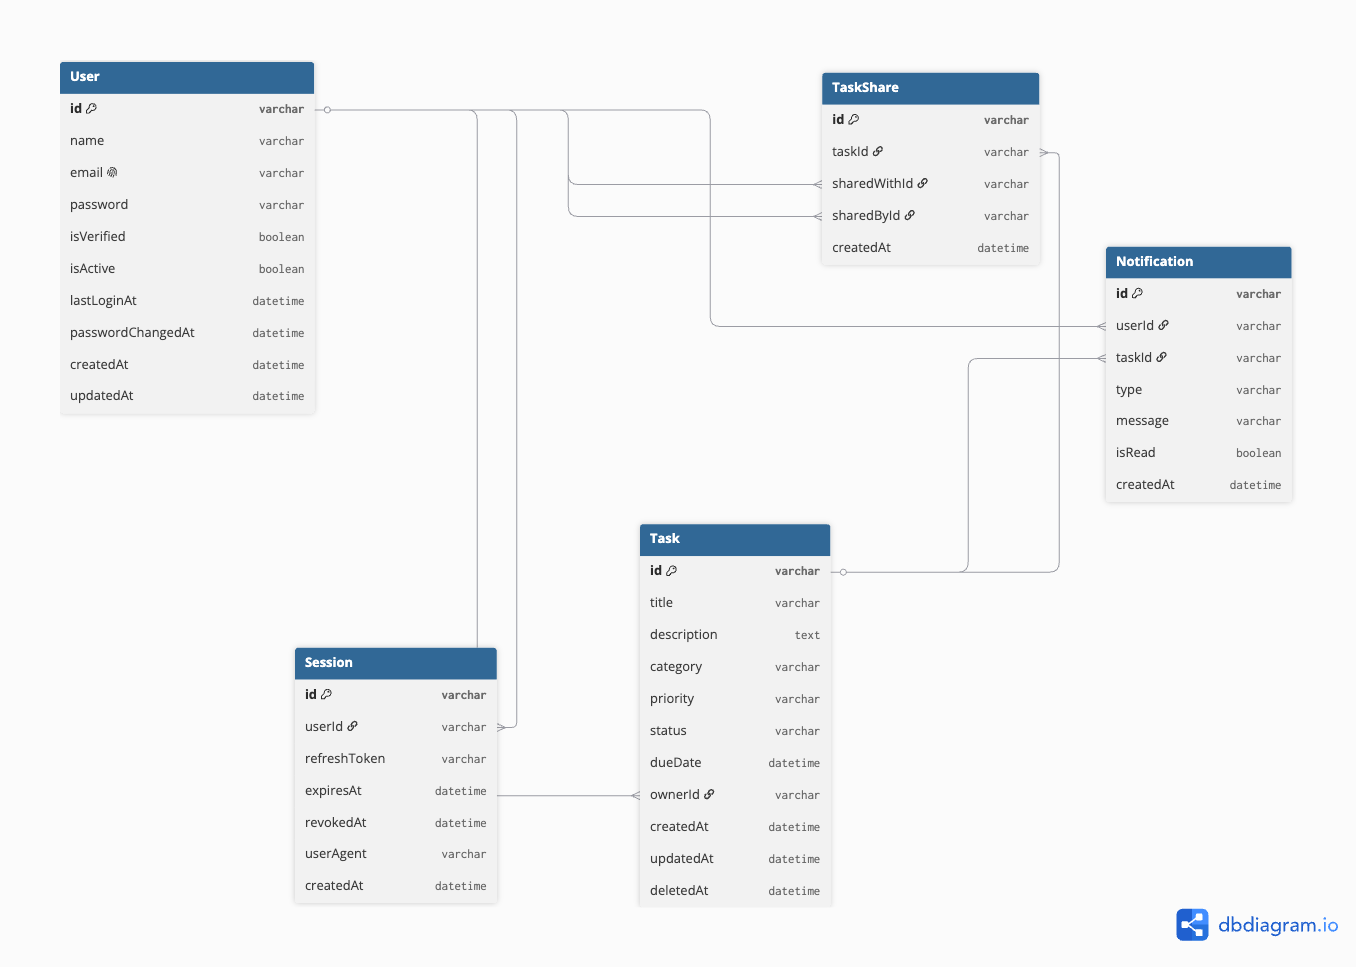
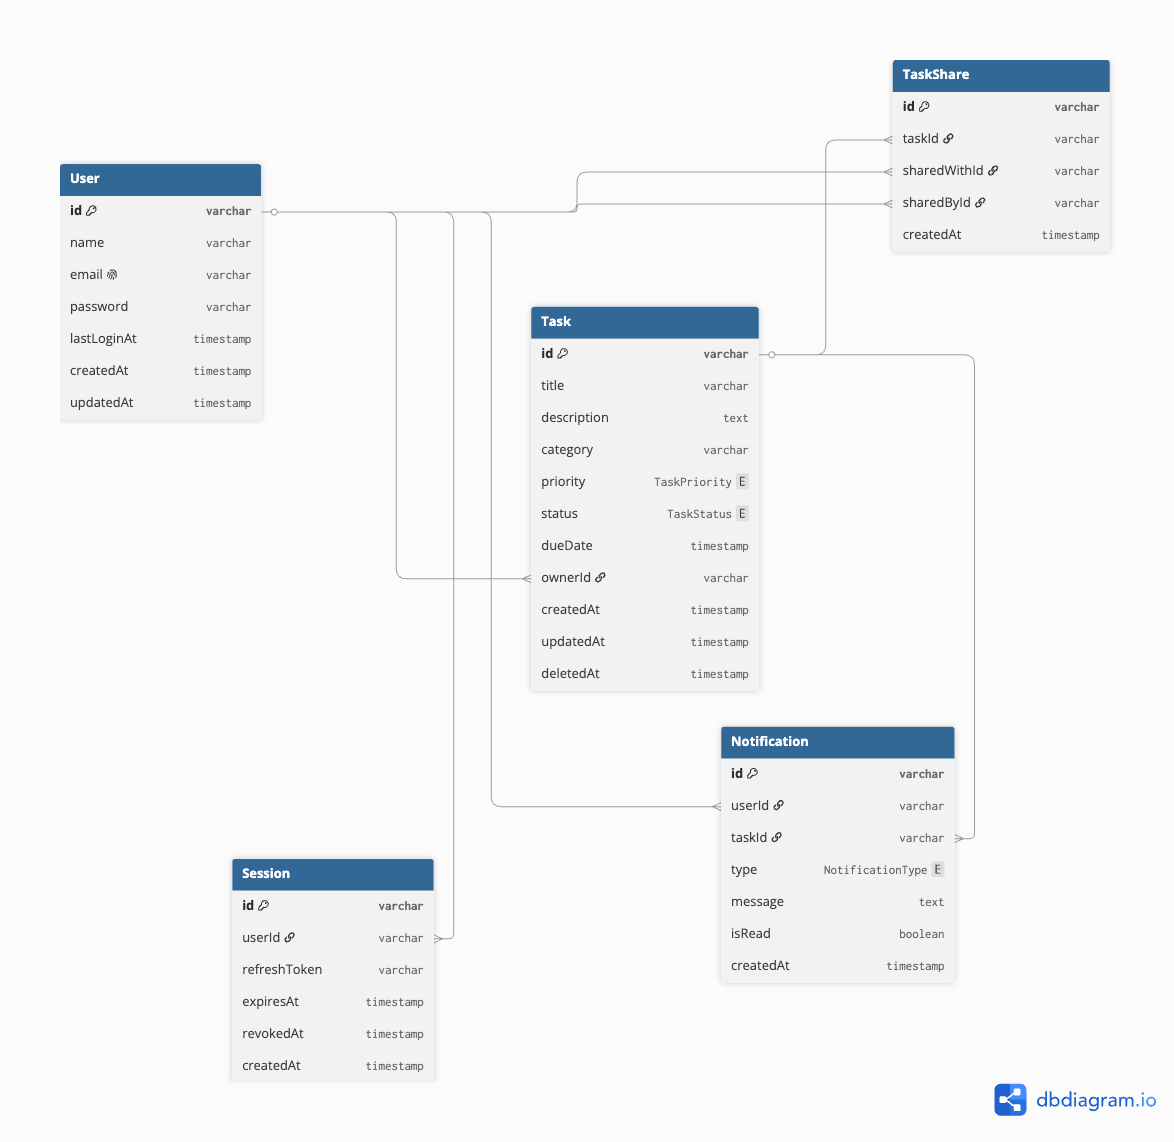
config changes

diff --git a/client/src/features/auth/useAuth.ts b/client/src/features/auth/useAuth.ts
@@ -9,7 +9,6 @@ import {
 import { useAuthStore } from "./auth.store"
 import type { LoginInput, RegisterInput } from "./auth.schema"
 
-import { ROUTES } from "@/shared/constants"
 import {
   setAccessToken,
   removeAccessToken,
@@ -70,7 +69,7 @@ export function useAuth() {
 
       toast.success("Login successful")
 
-      navigate(ROUTES.DASHBOARD)
+      navigate("/dashboard", { replace: true })
     } catch (error) {
       const message = getErrorMessage(error)
       toast.error("Error in login api: " + message)
@@ -83,8 +82,8 @@ export function useAuth() {
       await registerRequest(data)
 
       toast.success("Account created")
-
-      navigate(ROUTES.LOGIN)
+      navigate("/", { replace: true })
+      return true
     } catch (error) {
       const message = getErrorMessage(error)
       toast.error("Error in register api: " + message)
@@ -100,7 +99,7 @@ export function useAuth() {
       clearUser()
       removeAccessToken()
       disconnectSocket()
-      navigate(ROUTES.INITIAL)
+      navigate("/", { replace: true })
     }
   }
 

diff --git a/client/src/routes/AppRouter.tsx b/client/src/routes/AppRouter.tsx
@@ -2,7 +2,6 @@ import { Route, Routes } from "react-router-dom"
 import { ProtectedRoute } from "./ProtectedRoute"
 import { AppLayout } from "@/shared/AppLayout"
 
-import { ROUTES } from "@/shared/constants"
 import NotFoundPage from "@/components/NotFoundPage"
 import TaskDetail from "@/features/task/pages/TaskDetail"
 import SharedTasksPage from "@/features/shareTask/pages/ShareTaskPage"
@@ -14,11 +13,11 @@ import AuthPage from "@/features/auth/pages/AuthPage"
 export function AppRouter() {
   return (
     <Routes>
-      <Route path={ROUTES.INITIAL} element={<AuthPage />} />
+      <Route path={"/"} element={<AuthPage />} />
 
       <Route element={<ProtectedRoute />}>
         <Route element={<AppLayout />}>
-          <Route path={ROUTES.DASHBOARD} element={<DashboardPage />} />
+          <Route path={"/dashboard"} element={<DashboardPage />} />
 
           <Route path="/tasks" element={<TaskPage />} />
 

diff --git a/client/src/features/auth/pages/RegisterPage.tsx b/client/src/features/auth/pages/RegisterPage.tsx
@@ -9,9 +9,19 @@ import { useAuth } from "../useAuth"
 
 import { Lock, Mail, User } from "lucide-react"
 
-export function RegisterPage() {
-  const { register: registerUser } = useAuth()
+interface RegisterPageProps {
+  setMode: React.Dispatch<React.SetStateAction<"login" | "register">>
+}
 
+export function RegisterPage({ setMode }: RegisterPageProps) {
+  const { register: registerUser } = useAuth()
+  const onSubmit = async (data: RegisterInput) => {
+    const success = await registerUser(data)
+
+    if (success) {
+      setMode("login")
+    }
+  }
   const {
     register,
 
@@ -32,7 +42,7 @@ export function RegisterPage() {
         </p>
       </div>
 
-      <form className="space-y-5" onSubmit={handleSubmit(registerUser)}>
+      <form className="space-y-5" onSubmit={handleSubmit(onSubmit)}>
         <Input
           label="Full Name"
           placeholder="Enter your Full Name"

diff --git a/client/src/features/task/pages/EditTaskForm.tsx b/client/src/features/task/pages/EditTaskForm.tsx
@@ -61,7 +61,7 @@ export default function EditTaskForm({ taskId, tasks }: Props) {
     })
 
     if (ok) {
-      navigate("/tasks")
+      navigate("/tasks", { replace: true })
     }
   }
 
@@ -188,7 +188,7 @@ export default function EditTaskForm({ taskId, tasks }: Props) {
               loading={isSubmitting}
               onClick={async () => {
                 const ok = await deleteTask(taskId)
-                if (ok) navigate("/tasks")
+                if (ok) navigate("/tasks", { replace: true })
               }}
             >
               Yes, Delete

diff --git a/client/src/routes/ProtectedRoute.tsx b/client/src/routes/ProtectedRoute.tsx
@@ -3,8 +3,6 @@ import { Navigate, Outlet } from "react-router-dom"
 import { useAuthStore } from "@/features/auth/auth.store"
 import { AppLoader } from "@/shared/AppLoader"
 
-import { ROUTES } from "@/shared/constants"
-
 //protecting route from unauthenticate access
 
 export function ProtectedRoute() {
@@ -17,7 +15,7 @@ export function ProtectedRoute() {
   }
 
   if (!isAuthenticated) {
-    return <Navigate to={ROUTES.INITIAL} replace />
+    return <Navigate to={"/"} replace />
   }
 
   return <Outlet />

diff --git a/client/src/features/auth/pages/AuthPage.tsx b/client/src/features/auth/pages/AuthPage.tsx
@@ -93,7 +93,11 @@ export default function AuthPage() {
           </div>
 
           <div className="rounded-3xl border bg-white p-8 shadow-sm">
-            {mode === "login" ? <LoginPage /> : <RegisterPage />}
+            {mode === "login" ? (
+              <LoginPage />
+            ) : (
+              <RegisterPage setMode={setMode} />
+            )}
           </div>
         </div>
       </div>

diff --git a/client/src/components/NotFoundPage.tsx b/client/src/components/NotFoundPage.tsx
@@ -1,4 +1,3 @@
-import { ROUTES } from "@/shared/constants"
 import { Link } from "react-router-dom"
 
 export default function NotFoundPage() {
@@ -15,7 +14,7 @@ export default function NotFoundPage() {
       </p>
 
       <Link
-        to={ROUTES.INITIAL}
+        to={"/"}
         className="
           mt-8 rounded-xl bg-red-400 px-6 py-3
           font-medium text-white transition-all

diff --git a/client/src/libs/socket.ts b/client/src/libs/socket.ts
@@ -7,7 +7,8 @@ let socket: Socket | null = null
 export function connectSocket(token: string) {
   if (!token) return null
 
-  // if socket already exists, just update auth and reconnect if needed
+  // if socket already exists
+  // , just update auth and reconnect if needed
   if (socket) {
     socket.auth = { token }
     if (!socket.connected) socket.connect()
